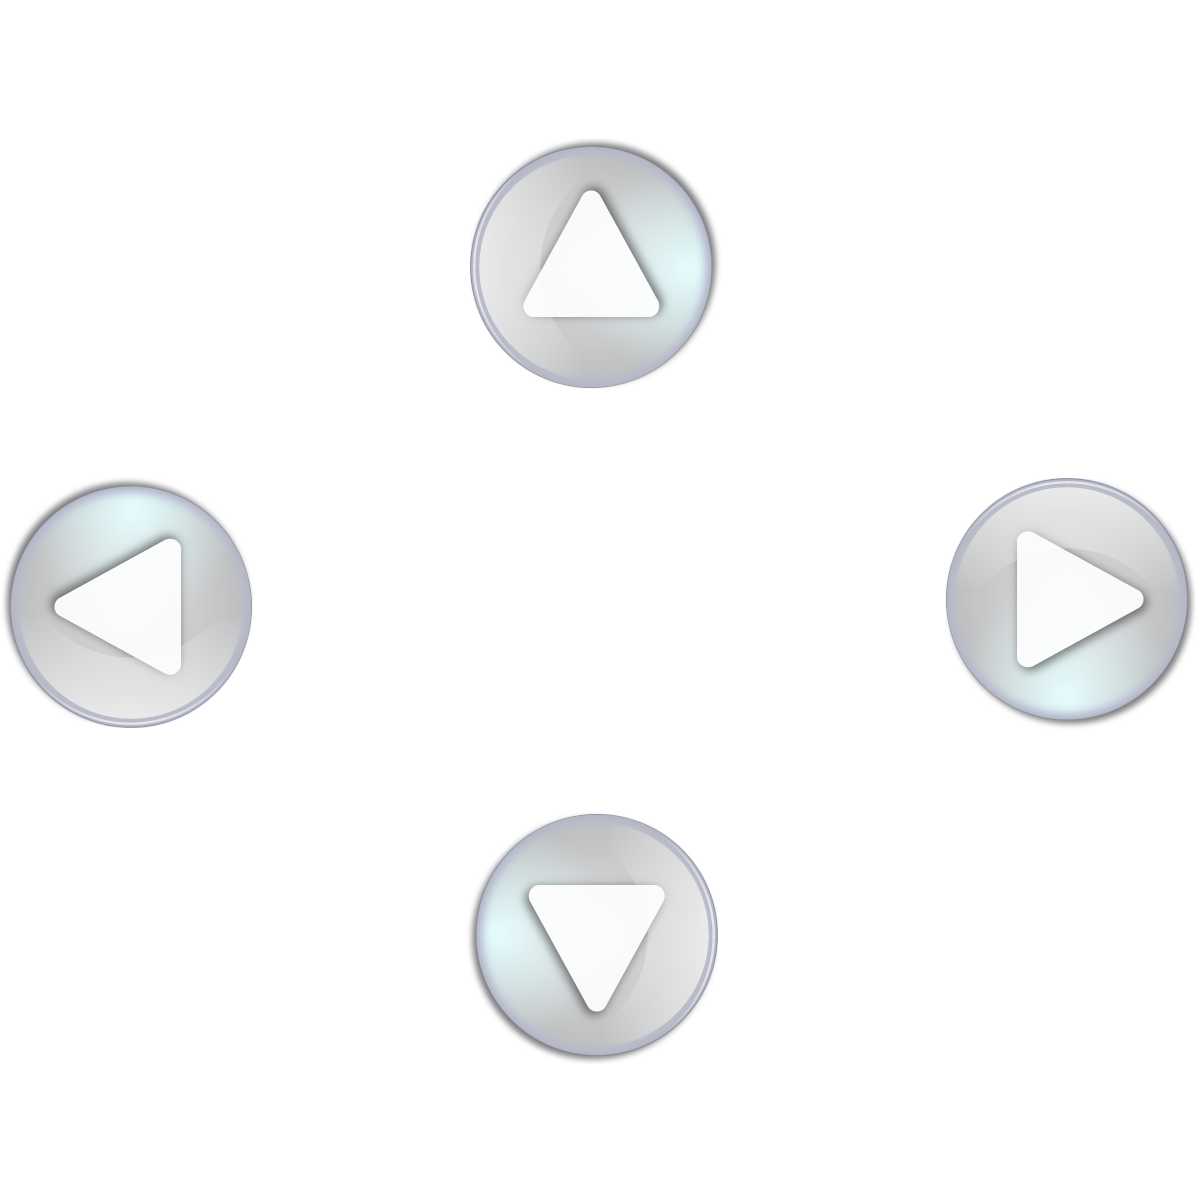
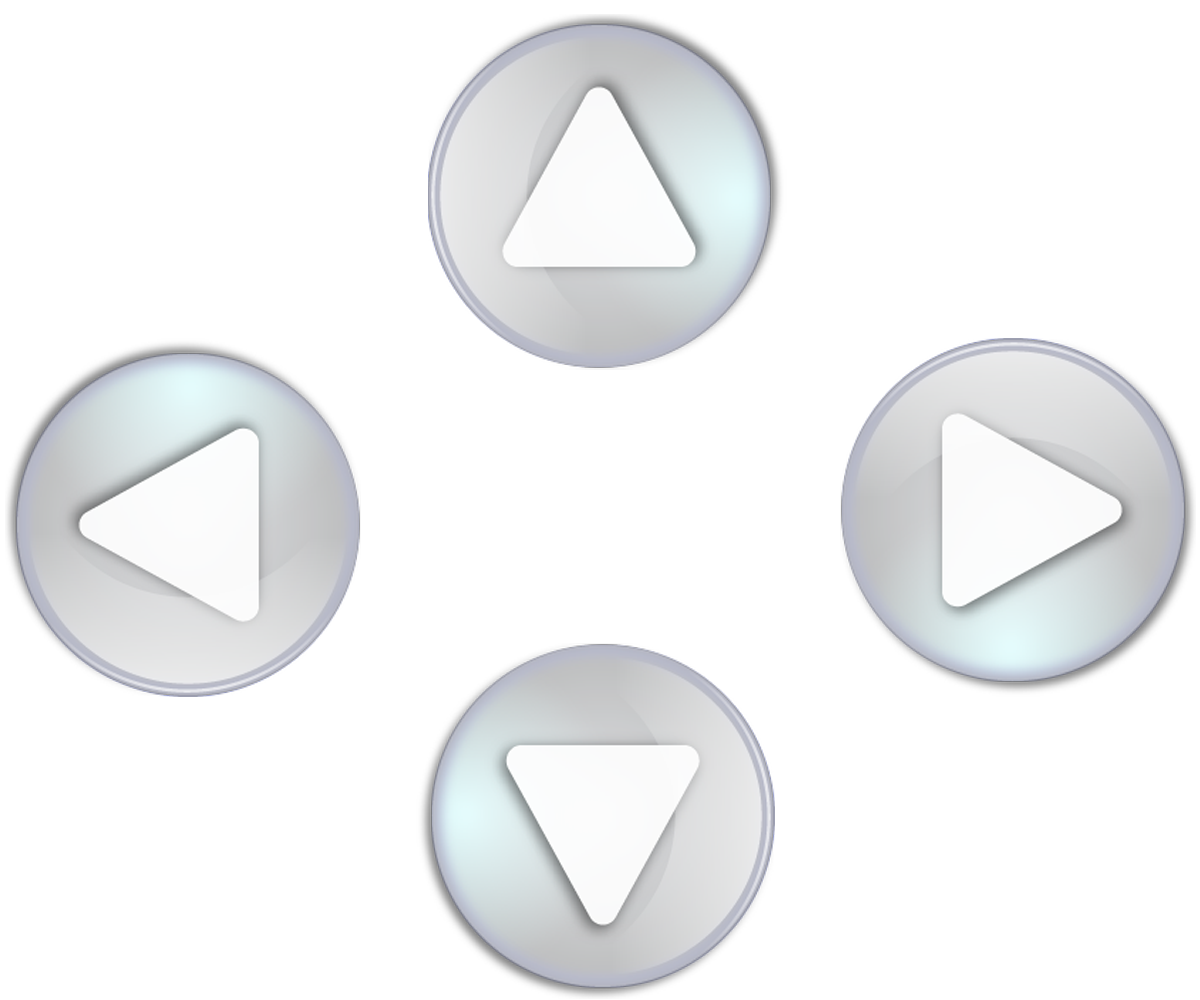
修改软键盘

diff --git a/贪吃蛇/src/components/KeyBoard.vue b/贪吃蛇/src/components/KeyBoard.vue
@@ -2,7 +2,7 @@
  * @Author: 一尾流莺
  * @Description:
  * @Date: 2021-10-27 18:13:32
- * @LastEditTime: 2021-10-28 16:37:04
+ * @LastEditTime: 2021-10-28 16:47:57
  * @FilePath: \warbler-games\贪吃蛇\src\components\KeyBoard.vue
 -->
 <template>
@@ -33,40 +33,41 @@ defineProps({
 
 <style lang='scss'>
 .key-board-box {
-  width: 200px;
-  height: 200px;
+  width: 240px;
+  height: 220px;
   background: url('../assets/keyboard.png');
+  background-repeat: no-repeat;
   background-size: 100%;
   position: absolute;
-  bottom: 20px;
+  bottom: 30px;
   opacity: 0.1;
   .up {
-    width: 40px;
-    height: 40px;
+    width: 75px;
+    height: 75px;
     position: absolute;
     left: 80px;
-    top: 22px;
+    top: 0px;
   }
   .down {
     position: absolute;
-    width: 40px;
-    height: 40px;
+    width: 75px;
+    height: 75px;
     left: 80px;
-    bottom: 22px;
+    bottom: 15px;
   }
   .left {
     position: absolute;
-    width: 40px;
-    height: 40px;
+    width: 75px;
+    height: 75px;
     left: 0px;
-    top: 80px;
+    top: 68px;
   }
   .right {
     position: absolute;
-    width: 40px;
-    height: 40px;
+    width: 75px;
+    height: 75px;
     right: 0px;
-    top: 80px;
+    top: 68px;
   }
 }
 </style>
